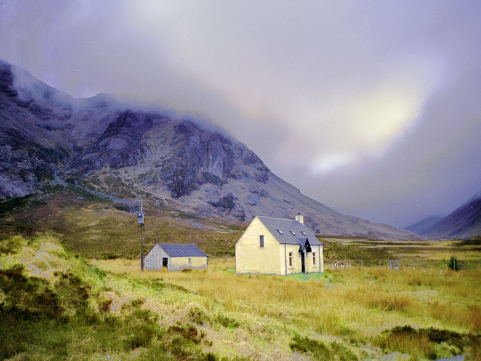
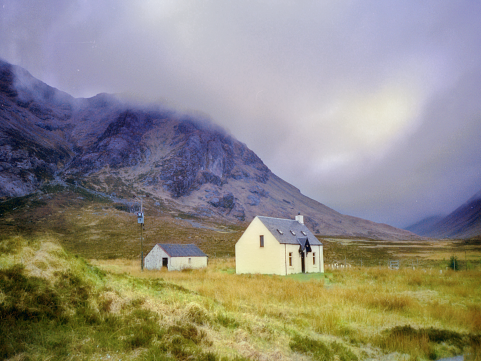
fixed regrain to better match original papers

diff --git a/regrain.m b/regrain.m
@@ -1,7 +1,10 @@
 %
 %  regraining post-process to match colour of IR and gradient of I0
 %
-%   IRR = degrain(I_original, I_colourgraded);
+%   IRR = degrain(I_original, I_graded, [smoothness]);
+%
+%   the smoothness (default=1, smoothness>=0) sets the fidelity of the 
+%   original gradient field. e.g. smoothness = 0 implies IRR = I_graded.
 %
 %  (c) F. Pitie 2007
 %
@@ -12,14 +15,24 @@
 %  note: this implementation follows a simple top-down approach
 %        with jacobi iterations.
 %
-function IRR = regrain(I0, IR)
+function IRR = regrain(I0, IR, varargin)
+
+numvarargs = length(varargin);
+if numvarargs > 1
+    error('regrain:TooManyInputs', ...
+        'requires at most 1 optional input');
+end
+
+optargs = {1};
+optargs(1:numvarargs) = varargin;
+[smoothness] = optargs{:};
 
 IRR = I0;
-[IRR] = regrain_rec(IRR, I0, IR, [4 4 16 32 64 128 128]);
+[IRR] = regrain_rec(IRR, I0, IR, [4 16 32 64 64 64 ], smoothness, 0);
 
 end
 
-function [IRR] = solve(IRR, I0, IR, nbits)
+function [IRR] = solve(IRR, I0, IR, nbits, smoothness, level)
 
 hres = size(I0,2);
 vres = size(I0,1);
@@ -37,12 +50,14 @@ x2 = 1:hres;
 x3 = [1 1:hres-1];
 x4 = 1:hres;
 
-G0 = blur(I0, 5);
-G0x = (G0(:,[2:end end], :) - G0(:,1:end, :))*255;
-G0y = (G0([2:end end], :, :) - G0(1:end, :, :))*255;
+G0 = I0;
+G0x = (G0(:,[2:end end], :) - G0(:,[1 1:end-1], :));
+G0y = (G0([2:end end], :, :) - G0([1 1:end-1], :, :));
 dI = sqrt(sum(G0x.^2 + G0y.^2, 3));
-phi = 30./(1 + 10*dI);
-psi = min(dI/5, 1);
+
+h = 2^(-level);
+psi = min(256*dI/5, 1);
+phi = 30./(1 + 10*dI/max(smoothness, eps))*h;
 
 phi1 = (phi(y1,x1) + phi(y0, x0))/2;
 phi2 = (phi(y2,x2) + phi(y0, x0))/2;
@@ -62,9 +77,11 @@ for i=1:nbits
     IRR = num./repmat(den + eps, [1 1 K]) .* (1-rho) + rho.*IRR;
 end
 
+figure; imshow(IRR)
+
 end
 
-function [IRR] = regrain_rec(IRR, I0, IR, nbits)
+function [IRR] = regrain_rec(IRR, I0, IR, nbits, smoothness, level)
 
 hres = size(I0,2);
 vres = size(I0,1);
@@ -75,10 +92,10 @@ if (length(nbits) > 1 && hres2 > 20 && vres2 > 20)
     I02 = imresize(I0, [vres2 hres2], 'bilinear');
     IR2 = imresize(IR, [vres2 hres2], 'bilinear');
     IRR2 = imresize(IRR, [vres2 hres2], 'bilinear');
-    [IRR2] = regrain_rec(IRR2, I02, IR2, nbits(2:end));
+    [IRR2] = regrain_rec(IRR2, I02, IR2, nbits(2:end), smoothness, level+1);
     IRR = imresize(IRR2, [vres hres], 'bilinear');
 end
 
-IRR = solve(IRR, I0, IR, nbits(1));
+IRR = solve(IRR, I0, IR, nbits(1), smoothness, level);
 
 end
